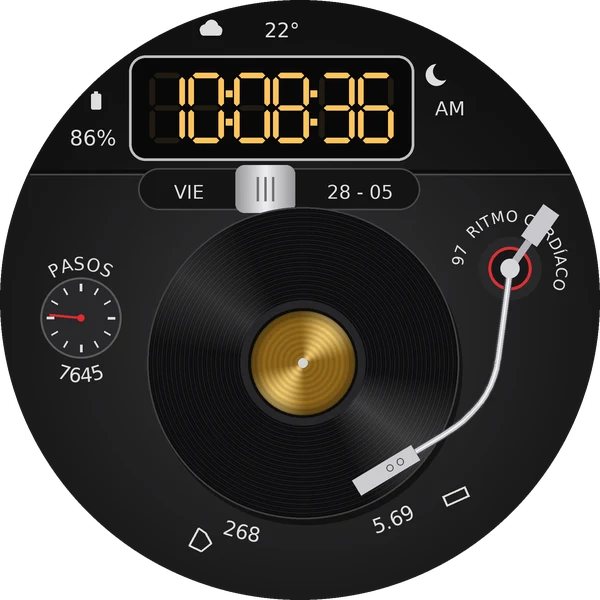
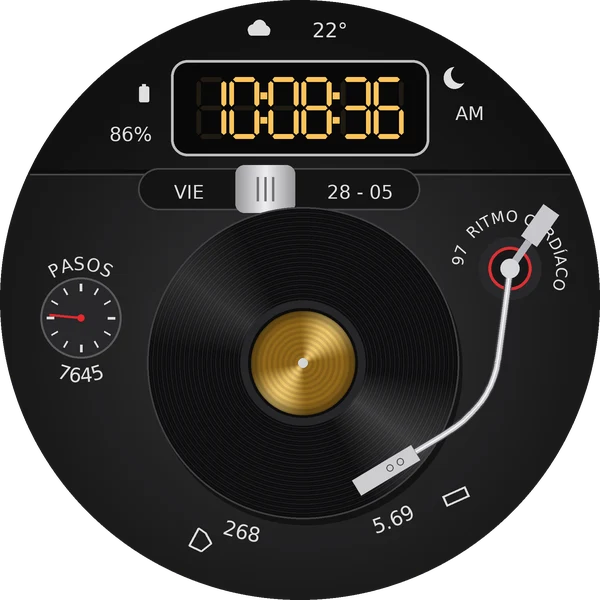
Vinilo: pantalla de la hora más chica y centrada; batería, luna, AM y clima en su lugar como la foto
Claude-Session: https://claude.ai/code/session_01RTdv2VrACuR4VFWJLA57hx

Changed region(s): [[0.12, 0.09, 0.81, 0.27], [0.33, 0.03, 0.57, 0.06], [0.15, 0.15, 0.18, 0.18]]

diff --git a/android/esferas-de-reloj/vinilo/src/main/java/cl/carlospnauto/esfera/FaceService.kt b/android/esferas-de-reloj/vinilo/src/main/java/cl/carlospnauto/esfera/FaceService.kt
@@ -90,10 +90,10 @@ private val AMB = Choice("bajo", "Bajo consumo", listOf("Esfera completa tenue" 
 object Config : FaceConfig {
     override val slots = listOf(WEATHER to "Clima (arriba)", STEPS to "Pasos", HEART to "Ritmo cardíaco", CAL to "Calorías (abajo)", DIST to "Distancia (abajo)")
     override val spots = listOf(
-        Spot(-0.12f, -0.64f, Action.MEDIA, "Hora", hit = 0.16f),
+        Spot(0f, -0.64f, Action.MEDIA, "Hora", hit = 0.16f),
         Spot(-0.08f, -0.37f, Action.MUSIC, "Fecha", hit = 0.10f),
-        Spot(-0.68f, -0.60f, Action.BATTERY, "Batería", hit = 0.11f),
-        Spot(0.47f, -0.69f, Action.ALARMS, "Luna y AM/PM", hit = 0.11f),
+        Spot(-0.55f, -0.61f, Action.BATTERY, "Batería", hit = 0.10f),
+        Spot(0.55f, -0.67f, Action.ALARMS, "Luna y AM/PM", hit = 0.10f),
     )
     override val choices = listOf(LABEL, INK, SPIN, SONG, GOAL, AMB)
     override val heartRate = true
@@ -107,7 +107,7 @@ class FaceService : WatchFaceService() {
         fun slot(id: Int, policy: DefaultComplicationDataSourcePolicy, b: RectF) =
             ComplicationSlot.createRoundRectComplicationSlotBuilder(id, factory, short, policy, ComplicationSlotBounds(b)).build()
         val slots = listOf(
-            slot(WEATHER, DefaultComplicationDataSourcePolicy(), RectF(0.38f, 0.02f, 0.58f, 0.09f)),
+            slot(WEATHER, DefaultComplicationDataSourcePolicy(), RectF(0.40f, 0.02f, 0.62f, 0.09f)),
             slot(STEPS, DefaultComplicationDataSourcePolicy(SystemDataSources.DATA_SOURCE_STEP_COUNT, ComplicationType.SHORT_TEXT), RectF(0.07f, 0.43f, 0.21f, 0.63f)),
             slot(HEART, DefaultComplicationDataSourcePolicy(), RectF(0.79f, 0.38f, 0.92f, 0.47f)),
             slot(CAL, DefaultComplicationDataSourcePolicy(), RectF(0.28f, 0.84f, 0.46f, 0.93f)),
@@ -321,16 +321,16 @@ class VinylRenderer(
 
         // ===== Clima =====
         val temp = complications.textOf(WEATHER, context.resources)
-        drawCloud(canvas, X(-0.30f), Y(-0.905f), r * 0.032f, textC)
-        write(canvas, temp ?: "--°", X(-0.06f), Y(-0.875f), r * 0.075f, textC, medium)
+        drawCloud(canvas, X(-0.14f), Y(-0.905f), r * 0.032f, textC)
+        write(canvas, temp ?: "--°", X(0.10f), Y(-0.875f), r * 0.075f, textC, medium)
 
         // ===== Hora, batería, luna y AM/PM =====
         drawLcd(canvas, cx, cy, r, t, is24, ink, showSeconds = !ambient)
         val pct = battery?.getIntProperty(BatteryManager.BATTERY_PROPERTY_CAPACITY) ?: -1
-        drawBattery(canvas, X(-0.68f), Y(-0.665f), r * 0.03f, textC)
-        write(canvas, if (pct >= 0) "$pct%" else "--", X(-0.69f), Y(-0.515f), r * 0.078f, textC, medium)
-        drawMoon(canvas, X(0.455f), Y(-0.75f), r * 0.036f, textC)
-        if (!is24) write(canvas, if (t.hour < 12) "AM" else "PM", X(0.50f), Y(-0.615f), r * 0.072f, textC, medium)
+        drawBattery(canvas, X(-0.52f), Y(-0.69f), r * 0.03f, textC)
+        write(canvas, if (pct >= 0) "$pct%" else "--", X(-0.565f), Y(-0.53f), r * 0.072f, textC, medium)
+        drawMoon(canvas, X(0.515f), Y(-0.74f), r * 0.036f, textC)
+        if (!is24) write(canvas, if (t.hour < 12) "AM" else "PM", X(0.565f), Y(-0.60f), r * 0.07f, textC, medium)
 
         // ===== Fecha con su interruptor =====
         val loc = Locale.getDefault()
@@ -387,7 +387,7 @@ class VinylRenderer(
     private fun drawLcd(canvas: Canvas, cx: Float, cy: Float, r: Float, t: ZonedDateTime, is24: Boolean, ink: Int, showSeconds: Boolean) {
         fun X(v: Float) = cx + v * r
         fun Y(v: Float) = cy + v * r
-        val box = RectF(X(-0.57f), Y(-0.815f), X(0.38f), Y(-0.465f))
+        val box = RectF(X(-0.43f), Y(-0.80f), X(0.43f), Y(-0.48f))
         fill.color = Color.rgb(8, 8, 9)
         canvas.drawRoundRect(box, r * 0.055f, r * 0.055f, fill)
         stroke.color = Color.rgb(190, 190, 192)
@@ -396,10 +396,10 @@ class VinylRenderer(
         val h = if (is24) "%02d".format(t.hour) else (if (t.hour % 12 == 0) 12 else t.hour % 12).toString().padStart(2, ' ')
         val m = "%02d".format(t.minute)
         val sc = if (showSeconds) "%02d".format(t.second) else "  "
-        val dh = r * 0.235f
-        val dw = r * 0.118f
-        val gap = r * 0.012f
-        val colon = r * 0.035f
+        val dh = r * 0.205f
+        val dw = r * 0.099f
+        val gap = r * 0.011f
+        val colon = r * 0.032f
         val total = 6 * dw + 3 * gap + 2 * colon
         var x = box.centerX() - total / 2
         val top = box.centerY() - dh / 2
